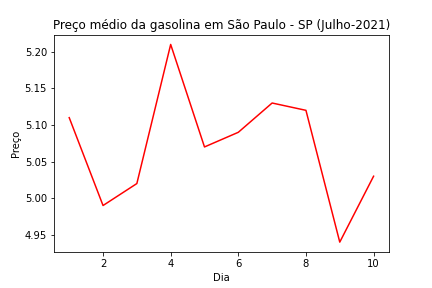
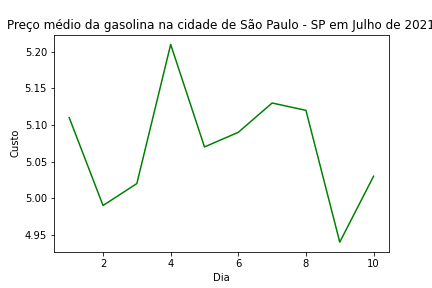
os arquivos gasolina.csv, gasolina.png e gasolina.py foram atualizados.

diff --git a/gasolina.py b/gasolina.py
@@ -7,7 +7,7 @@ import matplotlib.pyplot as plt
 #Criando o arquivo CSV
 
 %%writefile gasolina.csv
-Dia,Preço
+Dia,Custo
 1,5.11
 2,4.99
 3,5.02
@@ -25,8 +25,8 @@ gasolina_df = pd.read_csv('gasolina.csv')
 
 #Construindo um gráfico de linhas com base no dataframe
 
-gasolina_grafico = sns.lineplot(data=gasolina_df, x= "Dia", y= "Preço", color='red')
-gasolina_grafico.set_title('Preço médio da gasolina em São Paulo - SP (Julho-2021)')
+gasolina_grafico = sns.lineplot(data=gasolina_df, x= "Dia", y= "Custo", color='green')
+gasolina_grafico.set_title('Preço médio da gasolina na cidade de São Paulo - SP em Julho de 2021')
 plt.savefig('gasolina.png')
 plt.show(gasolina_grafico)
 
